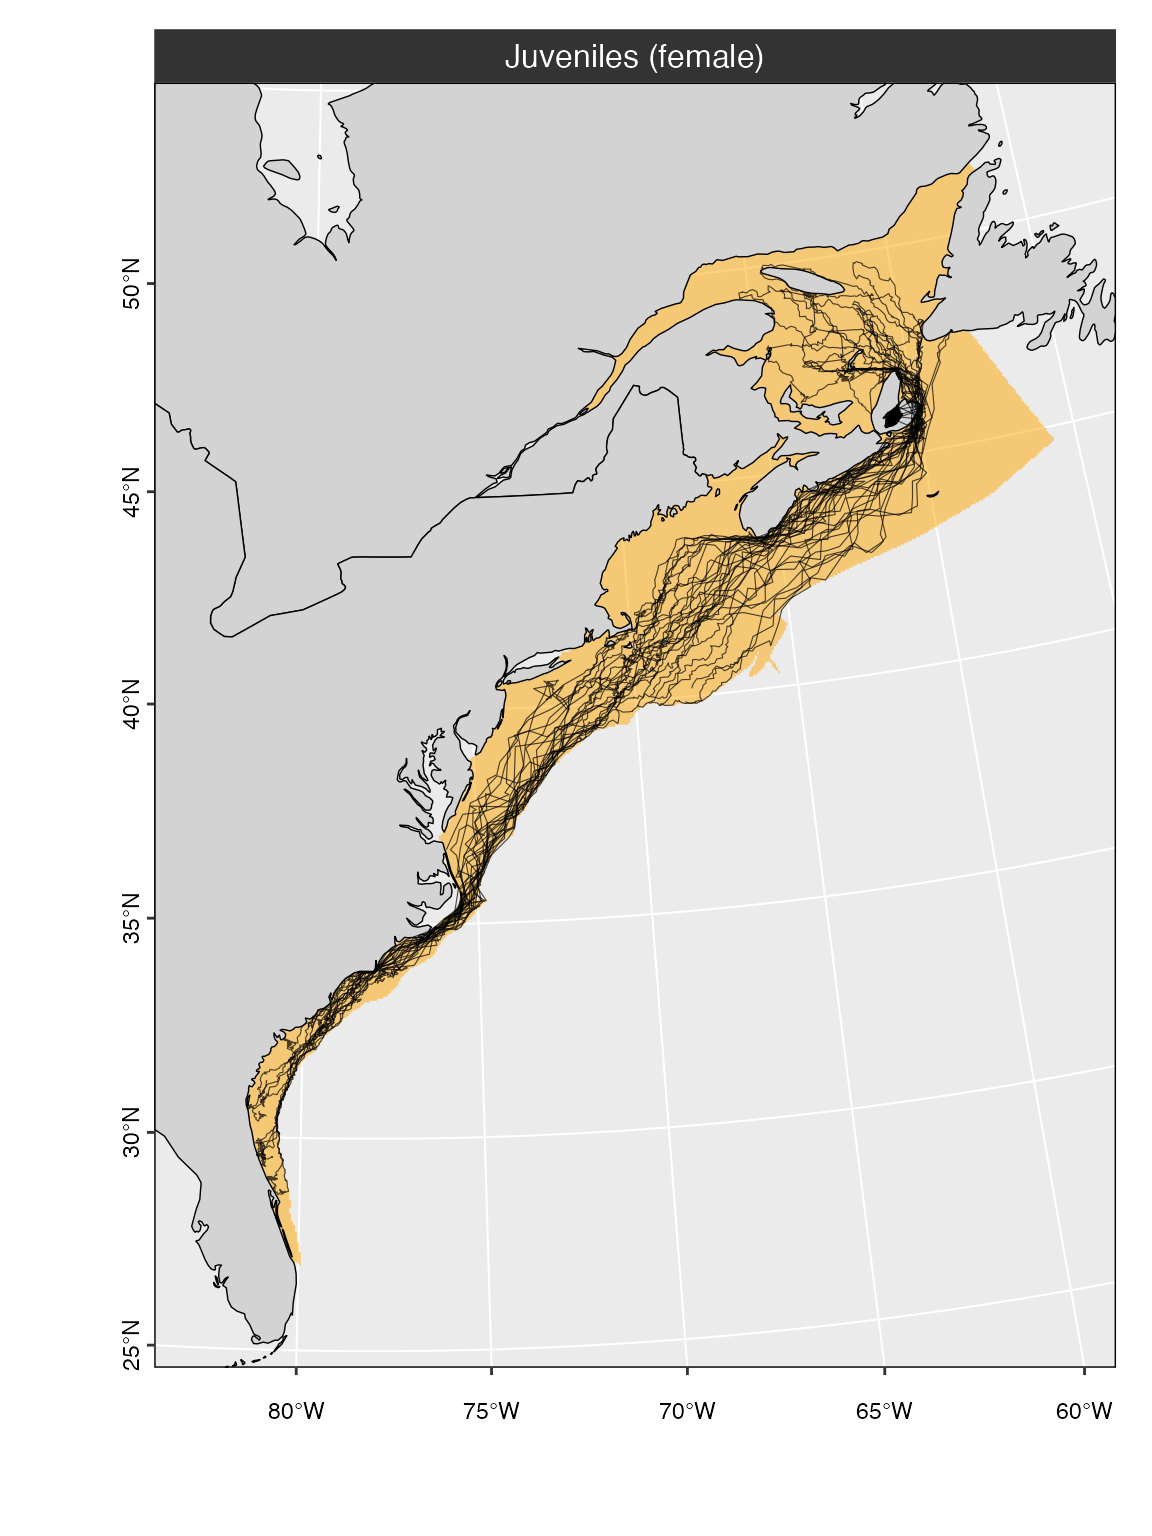
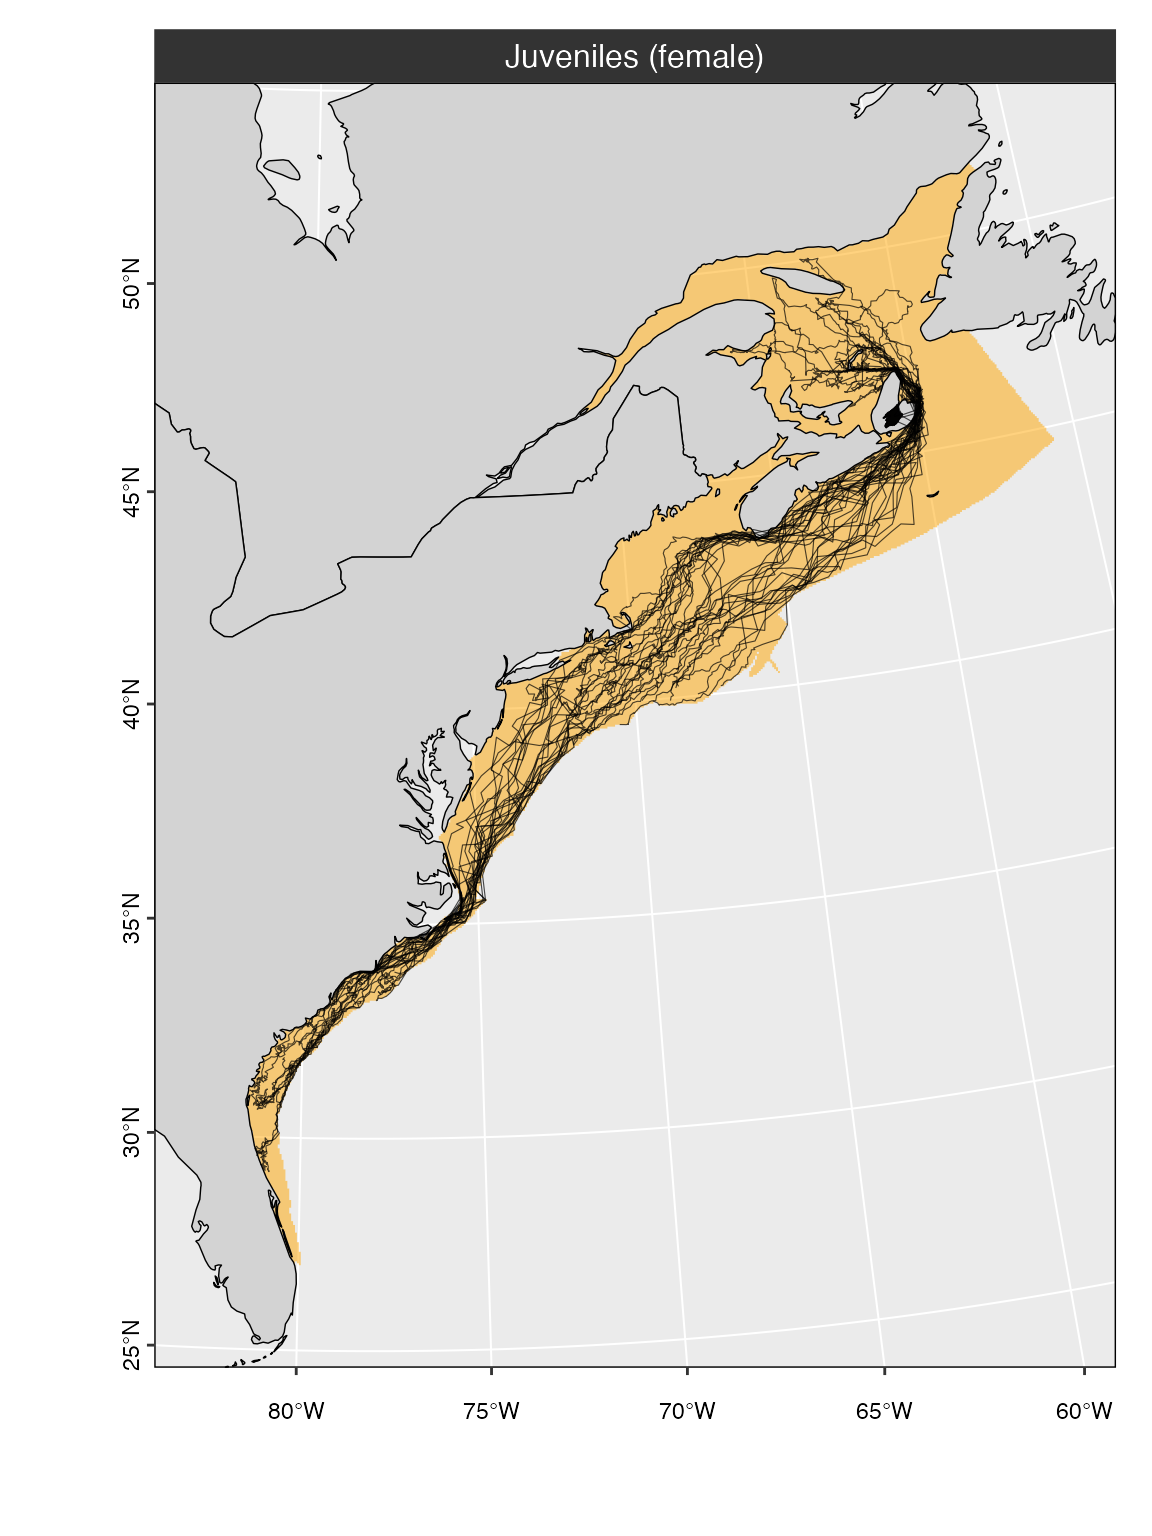
Update vignette

Changed region(s): [[0.2188, 0.1562, 0.8125, 0.7812]]

diff --git a/docs/articles/narwind.html b/docs/articles/narwind.html
@@ -265,25 +265,25 @@ by the user, as demonstrated below:</p>
 <span><span class="co">#&gt; --------------------------</span></span>
 <span><span class="co">#&gt; Locations </span></span>
 <span><span class="co">#&gt; --------------------------</span></span>
-<span><span class="co">#&gt;          date   easting  northing region</span></span>
-<span><span class="co">#&gt; 1: 2022-02-01 -279.5000 -293.5000   SEUS</span></span>
-<span><span class="co">#&gt; 2: 2022-02-02 -281.6726 -294.6712   SEUS</span></span>
-<span><span class="co">#&gt; 3: 2022-02-03 -281.9139 -295.9455   SEUS</span></span>
-<span><span class="co">#&gt; 4: 2022-02-04 -282.4054 -307.0256   SEUS</span></span>
+<span><span class="co">#&gt;          date  easting  northing region</span></span>
+<span><span class="co">#&gt; 1: 2022-02-01 20.50000 -53.50000   SEUS</span></span>
+<span><span class="co">#&gt; 2: 2022-02-02 14.75437 -45.55786   SEUS</span></span>
+<span><span class="co">#&gt; 3: 2022-02-03 23.60557 -50.74120   SEUS</span></span>
+<span><span class="co">#&gt; 4: 2022-02-04 19.66053 -50.13333   SEUS</span></span>
 <span><span class="co">#&gt; </span></span>
 <span><span class="co">#&gt; --------------------------</span></span>
 <span><span class="co">#&gt; Attributes </span></span>
 <span><span class="co">#&gt; --------------------------</span></span>
-<span><span class="co">#&gt;    cohort alive      age        bc   length length_a   length_b   length_c</span></span>
-<span><span class="co">#&gt; 1:      2     1 5.321271 0.2869395 12.31573  1405.88 -0.3644811 -0.1903424</span></span>
-<span><span class="co">#&gt; 2:      2     1 5.321271 0.2869395 12.31573  1405.88 -0.3644811 -0.1903424</span></span>
-<span><span class="co">#&gt; 3:      2     1 5.321271 0.2869395 12.31573  1405.88 -0.3644811 -0.1903424</span></span>
-<span><span class="co">#&gt; 4:      2     1 5.321271 0.2869395 12.31573  1405.88 -0.3644811 -0.1903424</span></span>
-<span><span class="co">#&gt;        mass leanmass  fatmass    mass_a   mass_b  mouth_r mouth_a  mouth_w</span></span>
-<span><span class="co">#&gt; 1: 26969.63 19230.98 7738.651 -5.090185 3.077491 0.145158    76.7 1.787727</span></span>
-<span><span class="co">#&gt; 2: 26969.63 19230.98 7738.651 -5.090185 3.077491 0.145158    76.7 1.787727</span></span>
-<span><span class="co">#&gt; 3: 26969.63 19230.98 7738.651 -5.090185 3.077491 0.145158    76.7 1.787727</span></span>
-<span><span class="co">#&gt; 4: 26969.63 19230.98 7738.651 -5.090185 3.077491 0.145158    76.7 1.787727</span></span>
+<span><span class="co">#&gt;    cohort alive   age        bc   length length_a   length_b  length_c     mass</span></span>
+<span><span class="co">#&gt; 1:      2     1 6.869 0.2330852 12.45229   1404.7 -0.4210679 -0.182138 23770.13</span></span>
+<span><span class="co">#&gt; 2:      2     1 6.869 0.2330852 12.45229   1404.7 -0.4210679 -0.182138 23770.13</span></span>
+<span><span class="co">#&gt; 3:      2     1 6.869 0.2330852 12.45229   1404.7 -0.4210679 -0.182138 23770.13</span></span>
+<span><span class="co">#&gt; 4:      2     1 6.869 0.2330852 12.45229   1404.7 -0.4210679 -0.182138 23770.13</span></span>
+<span><span class="co">#&gt;    leanmass  fatmass    mass_a   mass_b   mouth_r mouth_a  mouth_w</span></span>
+<span><span class="co">#&gt; 1: 18229.66 5540.465 -4.675318 2.931193 0.1413656    76.7 1.760325</span></span>
+<span><span class="co">#&gt; 2: 18229.66 5540.465 -4.675318 2.931193 0.1413656    76.7 1.760325</span></span>
+<span><span class="co">#&gt; 3: 18229.66 5540.465 -4.675318 2.931193 0.1413656    76.7 1.760325</span></span>
+<span><span class="co">#&gt; 4: 18229.66 5540.465 -4.675318 2.931193 0.1413656    76.7 1.760325</span></span>
 <span><span class="co">#&gt; </span></span>
 <span><span class="co">#&gt; --------------------------</span></span>
 <span><span class="co">#&gt; Stressors </span></span>
@@ -302,53 +302,53 @@ by the user, as demonstrated below:</p>
 <span><span class="co">#&gt; --------------------------</span></span>
 <span><span class="co">#&gt; Activity budgets </span></span>
 <span><span class="co">#&gt; --------------------------</span></span>
-<span><span class="co">#&gt;     d_travel swimspeed t_travel t_feed t_nurse   t_rest n_zero    t_sum</span></span>
-<span><span class="co">#&gt; 1:  2.468146  3366.780 9.586649      0       0 14.41335      2 6.292879</span></span>
-<span><span class="co">#&gt; 2:  1.296955  3769.379 9.421247      0       0 14.57875      2 5.845659</span></span>
-<span><span class="co">#&gt; 3: 11.090997  5435.979 9.793416      0       0 14.20658      2 8.493757</span></span>
-<span><span class="co">#&gt; 4:  1.466815  7144.827 8.575236      0       0 15.42476      2 7.260122</span></span>
+<span><span class="co">#&gt;     d_travel swimspeed  t_travel t_feed t_nurse   t_rest n_zero    t_sum</span></span>
+<span><span class="co">#&gt; 1:  9.802544  5536.257 10.678116      0       0 13.32188      2 6.184984</span></span>
+<span><span class="co">#&gt; 2: 10.257231  3490.313 10.397949      0       0 13.60205      2 9.081645</span></span>
+<span><span class="co">#&gt; 3:  3.991595  4840.793  9.712616      0       0 14.28738      2 6.223917</span></span>
+<span><span class="co">#&gt; 4:  1.510523  1972.477  9.758049      0       0 14.24195      2 6.015502</span></span>
 <span><span class="co">#&gt;    t_remain</span></span>
-<span><span class="co">#&gt; 1: 8.853561</span></span>
-<span><span class="co">#&gt; 2: 9.077171</span></span>
-<span><span class="co">#&gt; 3: 7.753122</span></span>
-<span><span class="co">#&gt; 4: 8.369939</span></span>
+<span><span class="co">#&gt; 1: 8.907508</span></span>
+<span><span class="co">#&gt; 2: 7.459177</span></span>
+<span><span class="co">#&gt; 3: 8.888042</span></span>
+<span><span class="co">#&gt; 4: 8.992249</span></span>
 <span><span class="co">#&gt; </span></span>
 <span><span class="co">#&gt; --------------------------</span></span>
 <span><span class="co">#&gt; Growth </span></span>
 <span><span class="co">#&gt; --------------------------</span></span>
 <span><span class="co">#&gt;        E_tot E_in    E_out delta_fat DE_lip ED_lip lip_anab lip_catab</span></span>
-<span><span class="co">#&gt; 1: -7090.982    0 7090.982         0   0.75     39      0.8         0</span></span>
-<span><span class="co">#&gt; 2: -6389.115    0 6389.115         0   0.75     39      0.8         0</span></span>
-<span><span class="co">#&gt; 3: -6114.916    0 6114.916         0   0.75     39      0.8         0</span></span>
-<span><span class="co">#&gt; 4: -5860.474    0 5860.474         0   0.75     39      0.8         0</span></span>
+<span><span class="co">#&gt; 1: -4651.957    0 4651.957         0   0.75     39      0.8         0</span></span>
+<span><span class="co">#&gt; 2: -4261.411    0 4261.411         0   0.75     39      0.8         0</span></span>
+<span><span class="co">#&gt; 3: -5663.145    0 5663.145         0   0.75     39      0.8         0</span></span>
+<span><span class="co">#&gt; 4: -4417.746    0 4417.746         0   0.75     39      0.8         0</span></span>
 <span><span class="co">#&gt; </span></span>
 <span><span class="co">#&gt; --------------------------</span></span>
 <span><span class="co">#&gt; Energy intake </span></span>
 <span><span class="co">#&gt; --------------------------</span></span>
-<span><span class="co">#&gt;    feed     preyconc  minprey     gape feedspeed   captEff impedance daylight</span></span>
-<span><span class="co">#&gt; 1:    0 1.670492e-15 1096.160 1.967368 0.4919129 0.9464554         0 11.08056</span></span>
-<span><span class="co">#&gt; 2:    0 1.670492e-15 2706.816 1.967368 0.4401822 0.9534351         0 11.08056</span></span>
-<span><span class="co">#&gt; 3:    0 1.670492e-15 3373.269 1.967368 1.0441348 0.9244745         0 11.08056</span></span>
-<span><span class="co">#&gt; 4:    0 1.317699e-15 1905.975 1.967368 0.9512607 0.9085235         0 11.08611</span></span>
+<span><span class="co">#&gt;    feed     preyconc   minprey     gape feedspeed   captEff impedance daylight</span></span>
+<span><span class="co">#&gt; 1:    0 5.853154e-09 2720.3550 2.007185 0.5597133 0.9386335         0 10.99056</span></span>
+<span><span class="co">#&gt; 2:    0 4.547844e-09 1486.2760 2.007185 0.7010541 0.9439358         0 10.98667</span></span>
+<span><span class="co">#&gt; 3:    0 7.523593e-09  879.2156 2.007185 0.8332389 0.9044154         0 10.98889</span></span>
+<span><span class="co">#&gt; 4:    0 5.852338e-09 1585.9258 2.007185 0.9793049 0.8671810         0 10.98889</span></span>
 <span><span class="co">#&gt;    feed_effort  targetBC     cop_mass     cop_kJ digestEff  metabEff</span></span>
-<span><span class="co">#&gt; 1:   0.2153212 0.5271131 0.0005902881 0.02764622 0.8954295 0.8536224</span></span>
-<span><span class="co">#&gt; 2:   0.2153212 0.5271131 0.0004039059 0.02686124 0.8875526 0.7384856</span></span>
-<span><span class="co">#&gt; 3:   0.2153212 0.5271131 0.0004574361 0.02531074 0.8848457 0.7650987</span></span>
-<span><span class="co">#&gt; 4:   0.2153212 0.5271131 0.0002985667 0.02237427 0.8868059 0.7344022</span></span>
+<span><span class="co">#&gt; 1:   0.5176495 0.5271131 0.0004444376 0.02263933 0.8827658 0.7164818</span></span>
+<span><span class="co">#&gt; 2:   0.5176495 0.5271131 0.0004136803 0.02037770 0.8882616 0.7172286</span></span>
+<span><span class="co">#&gt; 3:   0.5176495 0.5271131 0.0004758879 0.02071137 0.8798148 0.7342712</span></span>
+<span><span class="co">#&gt; 4:   0.5176495 0.5271131 0.0001711611 0.02684233 0.8911280 0.6782097</span></span>
 <span><span class="co">#&gt;           E_cop</span></span>
-<span><span class="co">#&gt; 1: 1.247375e-05</span></span>
-<span><span class="co">#&gt; 2: 7.111191e-06</span></span>
-<span><span class="co">#&gt; 3: 7.838270e-06</span></span>
-<span><span class="co">#&gt; 4: 4.350637e-06</span></span>
+<span><span class="co">#&gt; 1: 6.363925e-06</span></span>
+<span><span class="co">#&gt; 2: 5.370547e-06</span></span>
+<span><span class="co">#&gt; 3: 6.367386e-06</span></span>
+<span><span class="co">#&gt; 4: 2.776702e-06</span></span>
 <span><span class="co">#&gt; </span></span>
 <span><span class="co">#&gt; --------------------------</span></span>
 <span><span class="co">#&gt; Energy costs </span></span>
 <span><span class="co">#&gt; --------------------------</span></span>
 <span><span class="co">#&gt;         rmr       LC    stroke   E_growth</span></span>
-<span><span class="co">#&gt; 1: 275.7422 6815.152 0.1779114 0.08770223</span></span>
-<span><span class="co">#&gt; 2: 275.7422 6113.285 0.1595889 0.08770223</span></span>
-<span><span class="co">#&gt; 3: 275.7422 5839.086 0.1524309 0.08770223</span></span>
-<span><span class="co">#&gt; 4: 275.7422 5584.644 0.1457886 0.08770223</span></span>
+<span><span class="co">#&gt; 1: 266.0809 4385.814 0.1454761 0.06186888</span></span>
+<span><span class="co">#&gt; 2: 266.0809 3995.268 0.1325218 0.06186888</span></span>
+<span><span class="co">#&gt; 3: 266.0809 5397.002 0.1790169 0.06186888</span></span>
+<span><span class="co">#&gt; 4: 266.0809 4151.603 0.1377074 0.06186888</span></span>
 <span></span>
 <span><span class="co"># First 20 days of the simulation for the fifth whle</span></span>
 <span><span class="co"># print(m, 20, 5)</span></span></code></pre></div>
@@ -458,34 +458,34 @@ model (traveling, resting, nursing, and feeding), by region.</li>
 <span><span class="co">#&gt; ----------  -------------</span></span>
 <span><span class="co">#&gt; BOF_lower   0.0%    (0)  </span></span>
 <span><span class="co">#&gt; BOF_upper   0.0%    (0)  </span></span>
-<span><span class="co">#&gt; CABOT       5.4%  (392)  </span></span>
-<span><span class="co">#&gt; CCB         0.0%    (0)  </span></span>
-<span><span class="co">#&gt; GOM         14.8% (1080) </span></span>
-<span><span class="co">#&gt; GSL         17.3% (1261) </span></span>
-<span><span class="co">#&gt; MIDA        6.9%  (506)  </span></span>
-<span><span class="co">#&gt; SCOS        20.4% (1490) </span></span>
-<span><span class="co">#&gt; SEUS        23.5% (1712) </span></span>
-<span><span class="co">#&gt; SNE         11.8%  (859) </span></span>
+<span><span class="co">#&gt; CABOT       4.9%  (361)  </span></span>
+<span><span class="co">#&gt; CCB         0.1%    (7)  </span></span>
+<span><span class="co">#&gt; GOM         15.9% (1160) </span></span>
+<span><span class="co">#&gt; GSL         18.4% (1343) </span></span>
+<span><span class="co">#&gt; MIDA        7.3%  (530)  </span></span>
+<span><span class="co">#&gt; SCOS        18.8% (1373) </span></span>
+<span><span class="co">#&gt; SEUS        22.4% (1636) </span></span>
+<span><span class="co">#&gt; SNE         12.2%  (890) </span></span>
 <span><span class="co">#&gt; </span></span>
 <span><span class="co">#&gt; </span></span>
 <span><span class="co">#&gt; country   jv(fml)      </span></span>
 <span><span class="co">#&gt; --------  -------------</span></span>
-<span><span class="co">#&gt; Canada    43.1% (3143) </span></span>
-<span><span class="co">#&gt; U.S.      56.9% (4157) </span></span>
+<span><span class="co">#&gt; Canada    42.2% (3077) </span></span>
+<span><span class="co">#&gt; U.S.      57.8% (4223) </span></span>
 <span><span class="co">#&gt; </span></span>
 <span><span class="co">#&gt; =============================================================</span></span>
 <span><span class="co">#&gt; MOVEMENTS (km)</span></span>
 <span><span class="co">#&gt; =============================================================</span></span>
 <span><span class="co">#&gt; </span></span>
 <span><span class="co">#&gt; </span></span>
-<span><span class="co">#&gt; cohort    step                        migration                     </span></span>
-<span><span class="co">#&gt; --------  --------------------------  ------------------------------</span></span>
-<span><span class="co">#&gt; jv(fml)   15.2 (± 16.5) [0.1 – 111]   5,530 (± 509) [4,401 – 6,554] </span></span>
+<span><span class="co">#&gt; cohort    step                          migration                     </span></span>
+<span><span class="co">#&gt; --------  ----------------------------  ------------------------------</span></span>
+<span><span class="co">#&gt; jv(fml)   15.5 (± 16.9) [0.2 – 127.7]   5,647 (± 459) [4,603 – 6,674] </span></span>
 <span><span class="co">#&gt; </span></span>
 <span><span class="co">#&gt; </span></span>
 <span><span class="co">#&gt; cohort    reached SEUS   reached GSL </span></span>
 <span><span class="co">#&gt; --------  -------------  ------------</span></span>
-<span><span class="co">#&gt; jv(fml)   100.0% (20)    65.0% (13)  </span></span>
+<span><span class="co">#&gt; jv(fml)   100.0% (20)    75.0% (15)  </span></span>
 <span><span class="co">#&gt; </span></span>
 <span><span class="co">#&gt; =============================================================</span></span>
 <span><span class="co">#&gt; HABITAT USE</span></span>
@@ -501,12 +501,12 @@ model (traveling, resting, nursing, and feeding), by region.</li>
 <span><span class="co">#&gt; ----------  ------------</span></span>
 <span><span class="co">#&gt; BOF_lower   0.0% (0)    </span></span>
 <span><span class="co">#&gt; BOF_upper   0.0% (0)    </span></span>
-<span><span class="co">#&gt; CABOT       70.0% (14)  </span></span>
-<span><span class="co">#&gt; CCB         0.0% (0)    </span></span>
+<span><span class="co">#&gt; CABOT       75.0% (15)  </span></span>
+<span><span class="co">#&gt; CCB         5.0% (1)    </span></span>
 <span><span class="co">#&gt; GOM         100.0% (20) </span></span>
-<span><span class="co">#&gt; GSL         65.0% (13)  </span></span>
+<span><span class="co">#&gt; GSL         75.0% (15)  </span></span>
 <span><span class="co">#&gt; MIDA        100.0% (20) </span></span>
-<span><span class="co">#&gt; SCOS        100.0% (20) </span></span>
+<span><span class="co">#&gt; SCOS        95.0% (19)  </span></span>
 <span><span class="co">#&gt; SEUS        100.0% (20) </span></span>
 <span><span class="co">#&gt; SNE         100.0% (20) </span></span>
 <span><span class="co">#&gt; </span></span>
@@ -516,22 +516,23 @@ model (traveling, resting, nursing, and feeding), by region.</li>
 <span><span class="co">#&gt; ----------  -------------------------</span></span>
 <span><span class="co">#&gt; BOF_lower   0 (± 0) [0 – 0]          </span></span>
 <span><span class="co">#&gt; BOF_upper   0 (± 0) [0 – 0]          </span></span>
-<span><span class="co">#&gt; CABOT       28 (± 9.6) [16 – 49]     </span></span>
-<span><span class="co">#&gt; CCB         0 (± 0) [0 – 0]          </span></span>
-<span><span class="co">#&gt; GOM         54 (± 20) [23 – 99]      </span></span>
-<span><span class="co">#&gt; GSL         97 (± 42.6) [41 – 168]   </span></span>
-<span><span class="co">#&gt; MIDA        25.3 (± 8.9) [16 – 53]   </span></span>
-<span><span class="co">#&gt; SCOS        74.5 (± 63.1) [22 – 216] </span></span>
-<span><span class="co">#&gt; SEUS        85.6 (± 37.7) [23 – 160] </span></span>
-<span><span class="co">#&gt; SNE         43 (± 15) [28 – 78]      </span></span>
+<span><span class="co">#&gt; CABOT       24.1 (± 9.1) [18 – 56]   </span></span>
+<span><span class="co">#&gt; CCB         7 (± 0) [7 – 7]          </span></span>
+<span><span class="co">#&gt; GOM         58 (± 15.8) [30 – 85]    </span></span>
+<span><span class="co">#&gt; GSL         89.5 (± 36.7) [38 – 153] </span></span>
+<span><span class="co">#&gt; MIDA        26.5 (± 10.2) [16 – 59]  </span></span>
+<span><span class="co">#&gt; SCOS        72.3 (± 61.3) [36 – 210] </span></span>
+<span><span class="co">#&gt; SEUS        81.8 (± 38.8) [32 – 196] </span></span>
+<span><span class="co">#&gt; SNE         44.5 (± 20.5) [23 – 110] </span></span>
 <span><span class="co">#&gt; </span></span>
 <span><span class="co">#&gt; +++++++++++ Total number of regions visited +++++++++++</span></span>
 <span><span class="co">#&gt; </span></span>
 <span><span class="co">#&gt;  No.regions  jv(fml)    </span></span>
 <span><span class="co">#&gt; -----------  -----------</span></span>
-<span><span class="co">#&gt;           5  30.0%  (6) </span></span>
-<span><span class="co">#&gt;           6  5.0%  (1)  </span></span>
-<span><span class="co">#&gt;           7  65.0% (13) </span></span>
+<span><span class="co">#&gt;           4  5.0%  (1)  </span></span>
+<span><span class="co">#&gt;           5  20.0%  (4) </span></span>
+<span><span class="co">#&gt;           7  70.0% (14) </span></span>
+<span><span class="co">#&gt;           8  5.0%  (1)  </span></span>
 <span><span class="co">#&gt; </span></span>
 <span><span class="co">#&gt; </span></span>
 <span><span class="co">#&gt; =============================================================</span></span>
@@ -545,14 +546,14 @@ model (traveling, resting, nursing, and feeding), by region.</li>
 <span><span class="co">#&gt; ----------  ---------------  ---------------  ------------  ---------------</span></span>
 <span><span class="co">#&gt; BOF_lower   0 (± 0)          0 (± 0)          0 (± 0)       0 (± 0)        </span></span>
 <span><span class="co">#&gt; BOF_upper   0 (± 0)          0 (± 0)          0 (± 0)       0 (± 0)        </span></span>
-<span><span class="co">#&gt; CABOT       8.25 (± 3.67)    9.87 (± 3.36)    0 (± 0)       11.04 (± 2)    </span></span>
-<span><span class="co">#&gt; CCB         0 (± 0)          0 (± 0)          0 (± 0)       0 (± 0)        </span></span>
-<span><span class="co">#&gt; GOM         8.36 (± 3.66)    9.75 (± 3.55)    0 (± 0)       11.75 (± 2.07) </span></span>
-<span><span class="co">#&gt; GSL         8.19 (± 3.72)    9.82 (± 3.38)    0 (± 0)       11.07 (± 1.99) </span></span>
-<span><span class="co">#&gt; MIDA        16.15 (± 3.49)   7.85 (± 3.49)    0 (± 0)       0 (± 0)        </span></span>
-<span><span class="co">#&gt; SCOS        12.43 (± 4.83)   7.3 (± 4.09)     0 (± 0)       8.79 (± 3.12)  </span></span>
-<span><span class="co">#&gt; SEUS        10.78 (± 1.62)   13.22 (± 1.62)   0 (± 0)       0 (± 0)        </span></span>
-<span><span class="co">#&gt; SNE         8.93 (± 3.8)     10.32 (± 3.55)   0 (± 0)       12.35 (± 2.05)</span></span></code></pre>
+<span><span class="co">#&gt; CABOT       8.49 (± 3.6)     9.82 (± 3.44)    0 (± 0)       10.76 (± 2.26) </span></span>
+<span><span class="co">#&gt; CCB         6.51 (± 3.56)    9.94 (± 3.67)    0 (± 0)       13.22 (± 0.79) </span></span>
+<span><span class="co">#&gt; GOM         8.34 (± 3.64)    9.77 (± 3.51)    0 (± 0)       11.55 (± 2.11) </span></span>
+<span><span class="co">#&gt; GSL         8.29 (± 3.66)    10.04 (± 3.4)    0 (± 0)       11.21 (± 1.87) </span></span>
+<span><span class="co">#&gt; MIDA        16.03 (± 3.41)   7.97 (± 3.41)    0 (± 0)       0 (± 0)        </span></span>
+<span><span class="co">#&gt; SCOS        12.68 (± 4.97)   6.78 (± 4.16)    0 (± 0)       8.6 (± 3.25)   </span></span>
+<span><span class="co">#&gt; SEUS        10.88 (± 1.68)   13.12 (± 1.68)   0 (± 0)       0 (± 0)        </span></span>
+<span><span class="co">#&gt; SNE         8.95 (± 3.86)    10.28 (± 3.62)   0 (± 0)       12.37 (± 2.06)</span></span></code></pre>
 <p><img src="narwind_files/figure-html/model_summary-3.png" width="700"></p>
 </div>
 <div class="section level3">

diff --git a/docs/extra.css b/docs/extra.css
@@ -19,6 +19,20 @@ code {
     color: #28a52c;
 }
 
+h1 {
+    font-size: 28px !important;
+}
+h2 {
+  font-size: 24px !important;
+  padding-bottom: 1rem !important;
+}
+
+#pkgdown-sidebar h2 {
+    font-size: 1.2em !important;
+    margin-top: 1em !important;
+}
+
+
 code a, pre a {
     color: #4386c3;
 }
